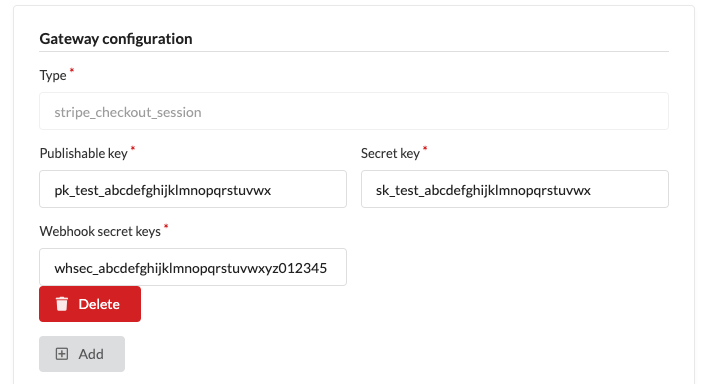
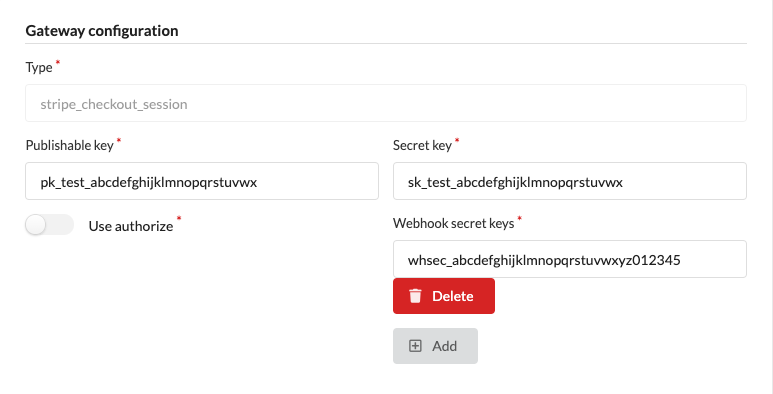
Add info about what the plugin is doing and update screenshots

diff --git a/README.md b/README.md
@@ -5,7 +5,17 @@
 
 ## Sylius Payum Stripe gateway plugin
 
-This plugin is designed to add a new gateway to Payum to support Stripe checkout session.
+This plugin is designed to add a new gateway to Payum to support Stripe Checkout Session.
+It supports [one time payment](https://stripe.com/docs/payments/accept-a-payment?integration=checkout)
+and authorized payment by [placing a hold on a card](https://stripe.com/docs/payments/capture-later).
+
+Refund is also possible but disabled by default to avoid mistakes, use this config to enable it :
+```yaml
+# config/packages/flux_se_sylius_payum_stripe.yaml
+
+flux_se_sylius_payum_stripe:
+  refund_disabled: false
+```
 
 See https://stripe.com/docs/payments/checkout for more information.
 
@@ -32,7 +42,8 @@ return [
     // ...
 ];
 ```
-Creat the file `config/packages/flux_se_sylius_payum_stripe.yaml` and add the following content
+
+Create the file `config/packages/flux_se_sylius_payum_stripe.yaml` and add the following content
 
 ```yaml
 imports:
@@ -60,6 +71,8 @@ Then a form will be displayed, fill-in the required fields :
 #### 3. the gateway configuration ([need info from here](#api-keys)) :
 
    ![Gateway Configuration][docs-assets-gateway-configuration]
+
+   ![Gateway Configuration][docs-assets-gateway-configuration-authorize]
 
    > _📖 NOTE1: You can add as many webhook secret keys as you need here, however generic usage need only one._
 
@@ -138,7 +151,7 @@ stripe listen \
 > 💡 Replace the --forward-to argument value with the right one you need.
 
 When the command finishes a webhook secret key is displayed, copy it to your Payment method
-in the Sylius admin, and it will be ok.
+in the Sylius admin.
 
 > ⚠ Using `stripe trigger checkout.session.completed` will always result in a `500 error`,
 > because the test object will not embed any usable metadata.
@@ -149,6 +162,7 @@ See documentation here : https://github.com/FLUX-SE/PayumStripe/blob/master/READ
 
 [docs-assets-create-payment-method]: docs/assets/create-payment-method.png
 [docs-assets-gateway-configuration]: docs/assets/gateway-configuration.png
+[docs-assets-gateway-configuration-authorize]: docs/assets/gateway-configuration-authorize.png
 
 [ico-version]: https://img.shields.io/packagist/v/Flux-SE/sylius-payum-stripe-plugin.svg?style=flat-square
 [ico-license]: https://img.shields.io/badge/license-MIT-brightgreen.svg?style=flat-square
